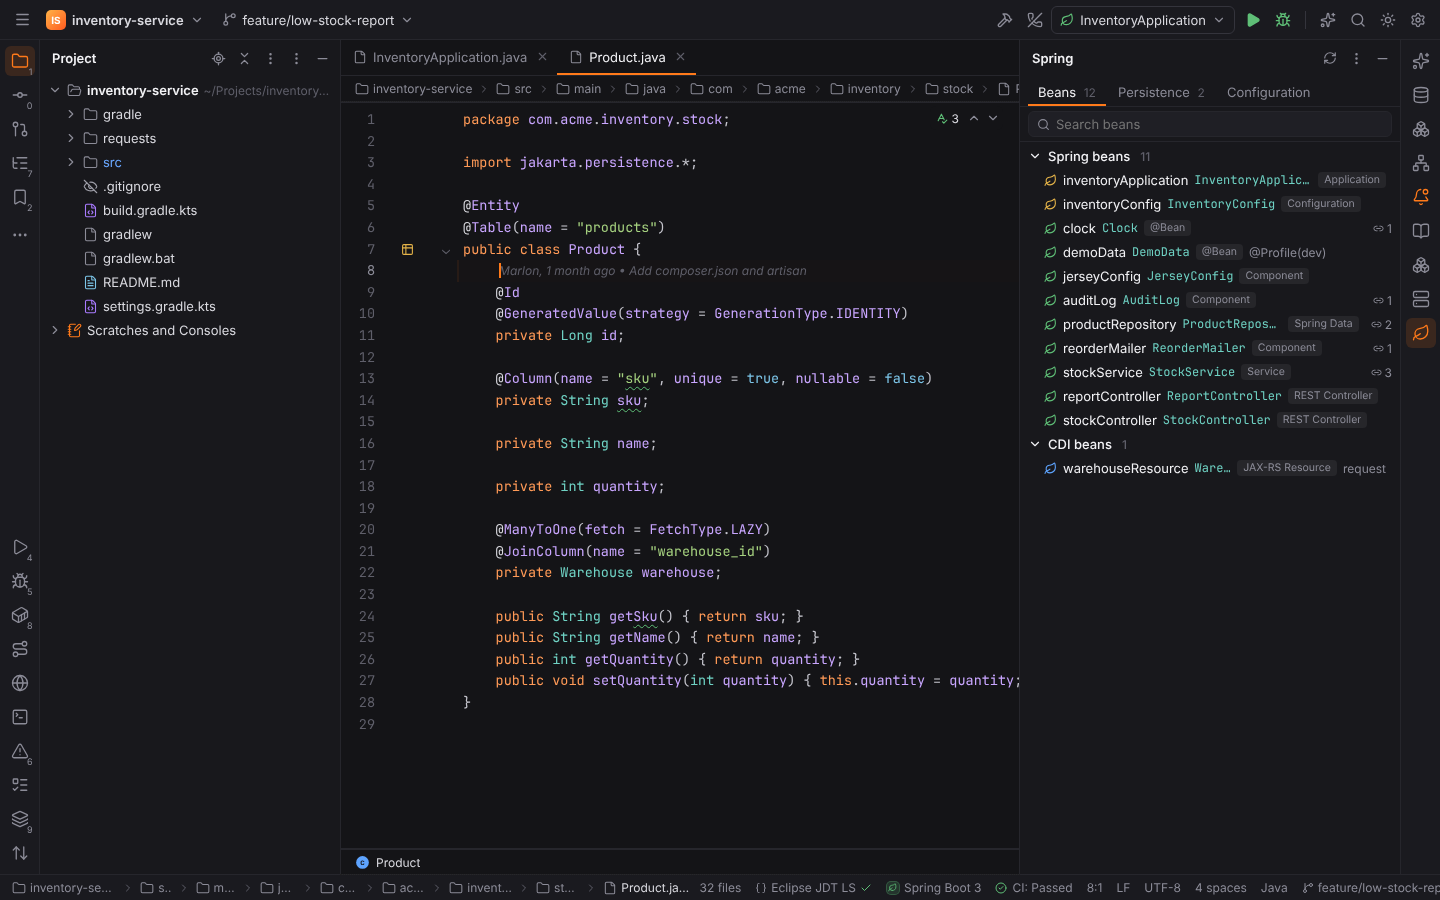
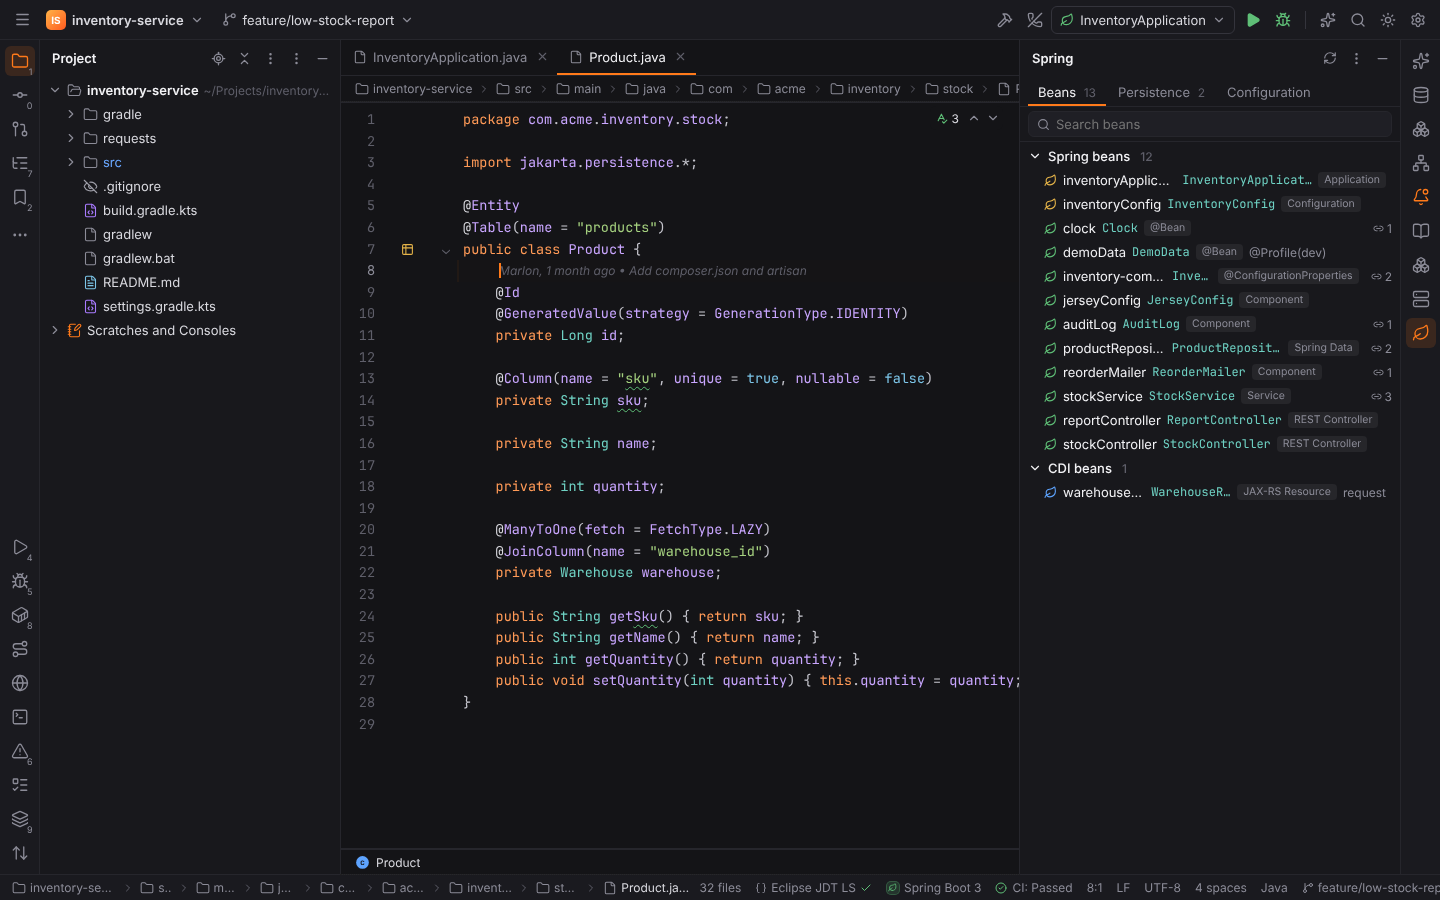
docs: add Spring screenshots and truncate long bean names

Changed region(s): [[0.7188, 0.28, 0.9688, 0.56], [0.8125, 0.1867, 0.9062, 0.2178], [0.9375, 0.4978, 0.9688, 0.56]]

diff --git a/app/ui/src/features/spring/spring.css b/app/ui/src/features/spring/spring.css
@@ -358,6 +358,14 @@
 }
 .sp-bean-name {
   color: var(--fg-strong);
+  min-width: 0;
+  overflow: hidden;
+  text-overflow: ellipsis;
+}
+.sp-tree-row .sp-badge,
+.sp-tree-row .sp-usages,
+.sp-tree-row .sp-live-dot {
+  flex-shrink: 0;
 }
 .sp-bean-type,
 .sp-field-type {
